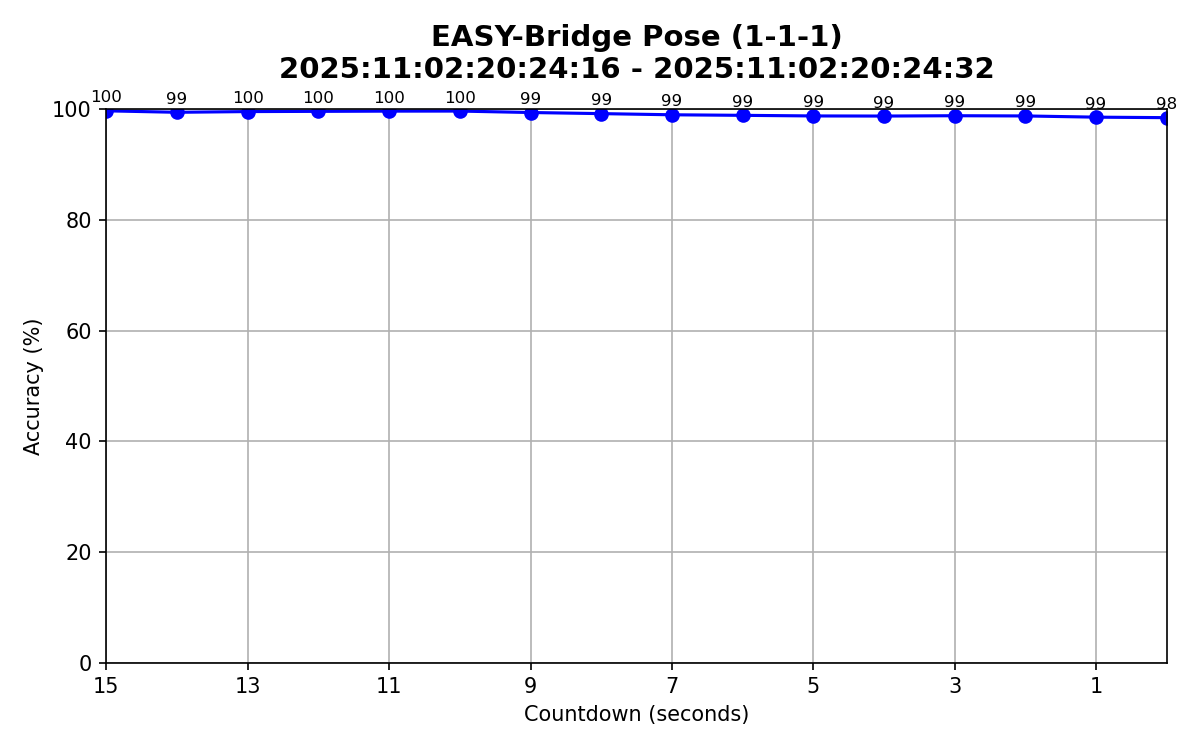
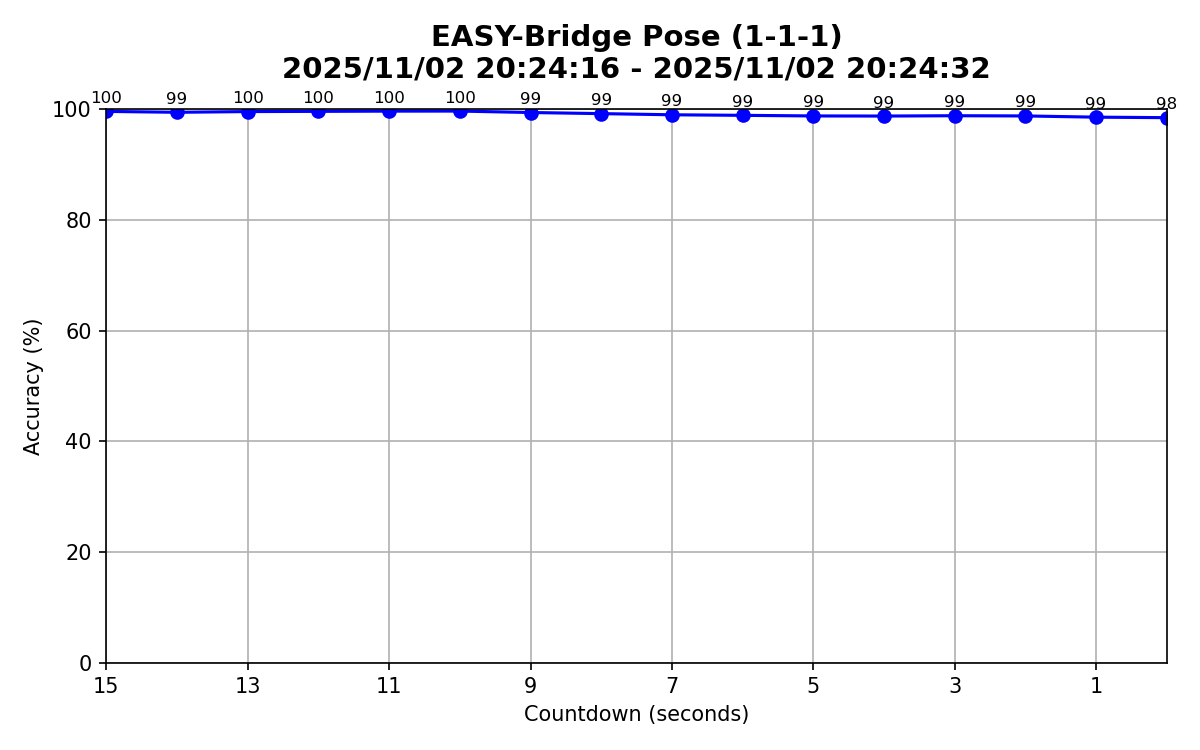
Fix DCbot Chart Bug

diff --git a/AIYogaCoachBot/utils/generate_chart.py b/AIYogaCoachBot/utils/generate_chart.py
@@ -3,6 +3,120 @@ import math
 import matplotlib.pyplot as plt
 from datetime import datetime
 
+# async def fetch_and_group_data(user_id, mode_text, posture_text, db, start_date, end_date):
+#     mode_map = {"PRACTICE": 0, "EASY": 1, "HARD": 2}
+#     mode = mode_map.get(mode_text.upper(), 0)
+
+#     pose_name_map = {
+#         "Bridge Pose": 9,
+#         "Chair Pose": 6,
+#         "Downward-Facing Dog": 0,
+#         "Locust Pose": 7,
+#         "Plank Pose": 4,
+#         "Staff Pose": 5,
+#         "Triangle Pose": 8,
+#         "Warrior 1 Pose": 1,
+#         "Warrior 2 Pose": 2,
+#         "Warrior 3 Pose": 3
+#     }
+#     posture_id = pose_name_map.get(posture_text, None)
+#     if posture_id is None:
+#         print("Invalid posture name:", posture_text)
+#         return []
+
+#     start_dt = datetime.combine(start_date, datetime.min.time())
+#     end_dt = datetime.combine(end_date, datetime.max.time())
+
+#     try:
+#         async with db.cursor() as cursor:
+#             await cursor.execute(
+#                 """
+#                 SELECT id, timestamp, accuracy, mode, posture_id, user_id, session_id, countdown, `count`
+#                 FROM record_picture
+#                 WHERE user_id = %s
+#                 AND mode = %s
+#                 AND posture_id = %s
+#                 AND timestamp BETWEEN %s AND %s
+#                 ORDER BY `count`, timestamp ASC
+#                 """,
+#                 (user_id, mode, posture_id, start_dt, end_dt)
+#             )
+#             rows = await cursor.fetchall()
+#     except Exception as e:
+#         print(f'DB fetch error: {str(e)}')
+#         return []
+
+#     if not rows:
+#         print("No data found for the given parameters.")
+#         return []
+
+#     merged_rows = {}
+#     for r in rows:
+#         key = (r["count"], r["countdown"])
+#         if key not in merged_rows:
+#             merged_rows[key] = {"sum": r["accuracy"], "cnt": 1, "row": r}
+#         else:
+#             merged_rows[key]["sum"] += r["accuracy"]
+#             merged_rows[key]["cnt"] += 1
+#     combined = []
+#     for key, v in merged_rows.items():
+#         avg_acc = v["sum"] / v["cnt"]
+#         sample = v["row"].copy()
+#         sample["accuracy"] = avg_acc
+#         combined.append(sample)
+
+#     major_groups = {}
+#     for row in combined:
+#         major_groups.setdefault(row["count"], []).append(row)
+
+#     final_groups = []
+#     for major_key, rows_in_group in major_groups.items():
+#         rows_in_group.sort(key=lambda r: r["countdown"], reverse=True)
+#         cds = [int(r["countdown"]) for r in rows_in_group if r["countdown"] is not None]
+#         if not cds:
+#             continue
+#         cd_max, cd_min = max(cds), min(cds)
+
+#         cd_map = {int(r["countdown"]): float(r["accuracy"]) for r in rows_in_group}
+#         cd_time_map = {int(r["countdown"]): r["timestamp"] for r in rows_in_group if r["timestamp"] is not None}
+#         filled_rows = []
+#         last_acc = None
+#         last_time = None
+#         for cd in range(cd_max, cd_min - 1, -1):
+#             acc = cd_map.get(cd, last_acc)
+#             tstamp = cd_time_map.get(cd, last_time)
+#             if acc is not None:
+#                 fake_row = rows_in_group[0].copy()
+#                 fake_row["countdown"] = cd
+#                 fake_row["accuracy"] = acc
+#                 fake_row["timestamp"] = tstamp
+#                 filled_rows.append(fake_row)
+#             if cd in cd_map:
+#                 last_acc = cd_map[cd]
+#             if cd in cd_time_map:
+#                 last_time = cd_time_map[cd]
+
+#         sub_groups, temp = [], []
+#         prev_cd = None
+#         for r in filled_rows:
+#             cd = int(r["countdown"])
+#             if prev_cd is not None and cd > prev_cd:
+#                 sub_groups.append(temp)
+#                 temp = []
+#             temp.append(r)
+#             prev_cd = cd
+#         if temp:
+#             sub_groups.append(temp)
+
+#         for idx, sg in enumerate(sub_groups, start=1):
+#             final_groups.append({
+#                 "major": major_key,
+#                 "minor": idx,
+#                 "rows": sg
+#             })
+
+#     return final_groups
+
 async def fetch_and_group_data(user_id, mode_text, posture_text, db, start_date, end_date):
     mode_map = {"PRACTICE": 0, "EASY": 1, "HARD": 2}
     mode = mode_map.get(mode_text.upper(), 0)
@@ -21,7 +135,6 @@ async def fetch_and_group_data(user_id, mode_text, posture_text, db, start_date,
     }
     posture_id = pose_name_map.get(posture_text, None)
     if posture_id is None:
-        print("Invalid posture name:", posture_text)
         return []
 
     start_dt = datetime.combine(start_date, datetime.min.time())
@@ -42,17 +155,15 @@ async def fetch_and_group_data(user_id, mode_text, posture_text, db, start_date,
                 (user_id, mode, posture_id, start_dt, end_dt)
             )
             rows = await cursor.fetchall()
-    except Exception as e:
-        print(f'DB fetch error: {str(e)}')
+    except Exception:
         return []
 
     if not rows:
-        print("No data found for the given parameters.")
         return []
 
     merged_rows = {}
     for r in rows:
-        key = (r["count"], r["countdown"])
+        key = (r["count"], r["countdown"], r["timestamp"])
         if key not in merged_rows:
             merged_rows[key] = {"sum": r["accuracy"], "cnt": 1, "row": r}
         else:
@@ -71,48 +182,73 @@ async def fetch_and_group_data(user_id, mode_text, posture_text, db, start_date,
 
     final_groups = []
     for major_key, rows_in_group in major_groups.items():
-        rows_in_group.sort(key=lambda r: r["countdown"], reverse=True)
-        cds = [int(r["countdown"]) for r in rows_in_group if r["countdown"] is not None]
-        if not cds:
-            continue
-        cd_max, cd_min = max(cds), min(cds)
-
-        cd_map = {int(r["countdown"]): float(r["accuracy"]) for r in rows_in_group}
-        cd_time_map = {int(r["countdown"]): r["timestamp"] for r in rows_in_group if r["timestamp"] is not None}
-        filled_rows = []
-        last_acc = None
-        last_time = None
-        for cd in range(cd_max, cd_min - 1, -1):
-            acc = cd_map.get(cd, last_acc)
-            tstamp = cd_time_map.get(cd, last_time)
-            if acc is not None:
-                fake_row = rows_in_group[0].copy()
-                fake_row["countdown"] = cd
-                fake_row["accuracy"] = acc
-                fake_row["timestamp"] = tstamp
-                filled_rows.append(fake_row)
-            if cd in cd_map:
-                last_acc = cd_map[cd]
-            if cd in cd_time_map:
-                last_time = cd_time_map[cd]
-
-        sub_groups, temp = [], []
+        rows_in_group.sort(key=lambda r: r["timestamp"] or datetime.min)  # sort by time
+        cycles = []
+        current_cycle = []
         prev_cd = None
-        for r in filled_rows:
-            cd = int(r["countdown"])
-            if prev_cd is not None and cd > prev_cd:
-                sub_groups.append(temp)
-                temp = []
-            temp.append(r)
-            prev_cd = cd
-        if temp:
-            sub_groups.append(temp)
+        for r in rows_in_group:
+            if r.get("countdown") is None:
+                continue
+            try:
+                cd = int(r["countdown"])
+            except Exception:
+                continue
 
-        for idx, sg in enumerate(sub_groups, start=1):
+            if prev_cd is None:
+                current_cycle = [r]
+            else:
+                if cd > prev_cd:  # new cycle
+                    if current_cycle:
+                        cycles.append(current_cycle)
+                    current_cycle = [r]
+                else:
+                    current_cycle.append(r)
+            prev_cd = cd
+        if current_cycle:
+            cycles.append(current_cycle)
+
+        for idx, cycle in enumerate(cycles, start=1):
+            obs_map = {}
+            time_map = {}
+            for rr in cycle:
+                try:
+                    k = int(rr["countdown"])
+                except Exception:
+                    continue
+                if k not in obs_map:
+                    obs_map[k] = float(rr["accuracy"])
+                    time_map[k] = rr.get("timestamp")
+
+            if not obs_map:
+                continue
+
+            cd_max = max(obs_map.keys())
+            cd_min = min(obs_map.keys())
+
+            filled_rows = []
+            last_acc = None
+            last_time = None
+            for cd in range(cd_max, cd_min - 1, -1):
+                if cd in obs_map:
+                    last_acc = obs_map[cd]
+                    last_time = time_map.get(cd, last_time)
+                    fake_row = cycle[0].copy()
+                    fake_row["countdown"] = cd
+                    fake_row["accuracy"] = last_acc
+                    fake_row["timestamp"] = last_time
+                    filled_rows.append(fake_row)
+                else:
+                    if last_acc is not None:
+                        fake_row = cycle[0].copy()
+                        fake_row["countdown"] = cd
+                        fake_row["accuracy"] = last_acc
+                        fake_row["timestamp"] = last_time
+                        filled_rows.append(fake_row)
+
             final_groups.append({
                 "major": major_key,
                 "minor": idx,
-                "rows": sg
+                "rows": filled_rows
             })
 
     return final_groups

diff --git a/AIYogaCoachBot/cogs/ExportCharts.py b/AIYogaCoachBot/cogs/ExportCharts.py
@@ -1,3 +1,4 @@
+import asyncio
 import discord
 from discord import app_commands
 from discord.ext import commands
